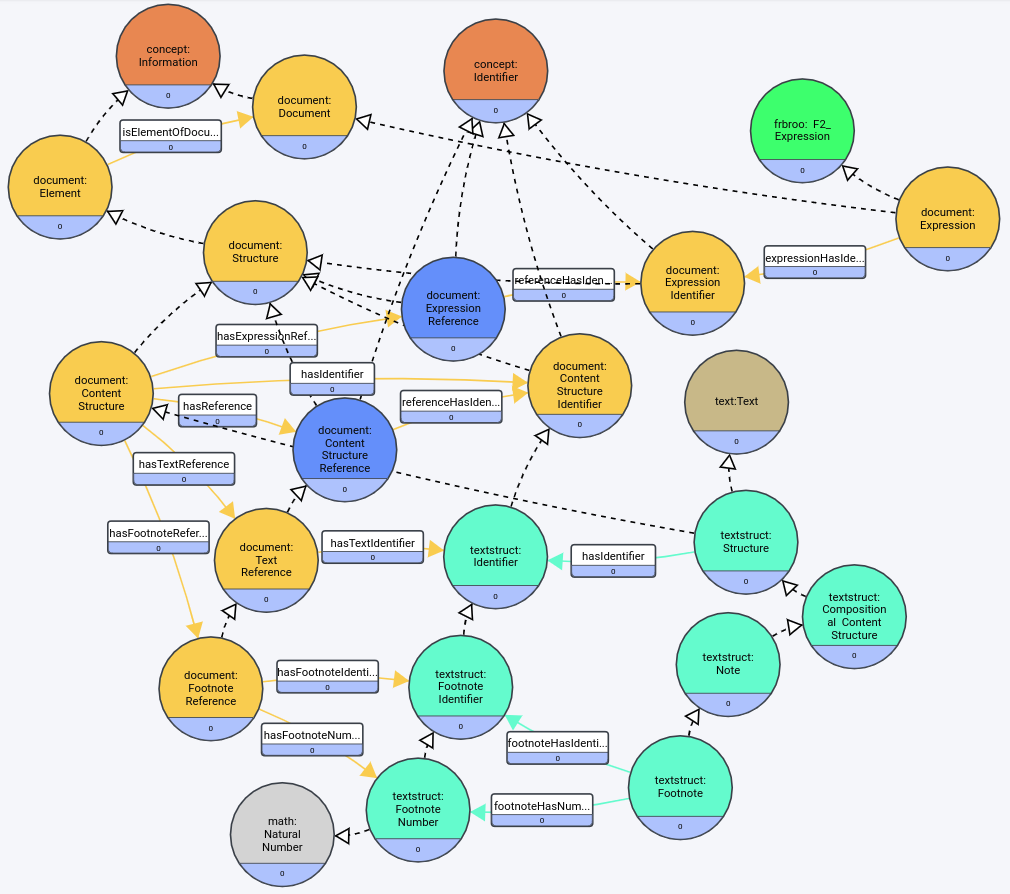
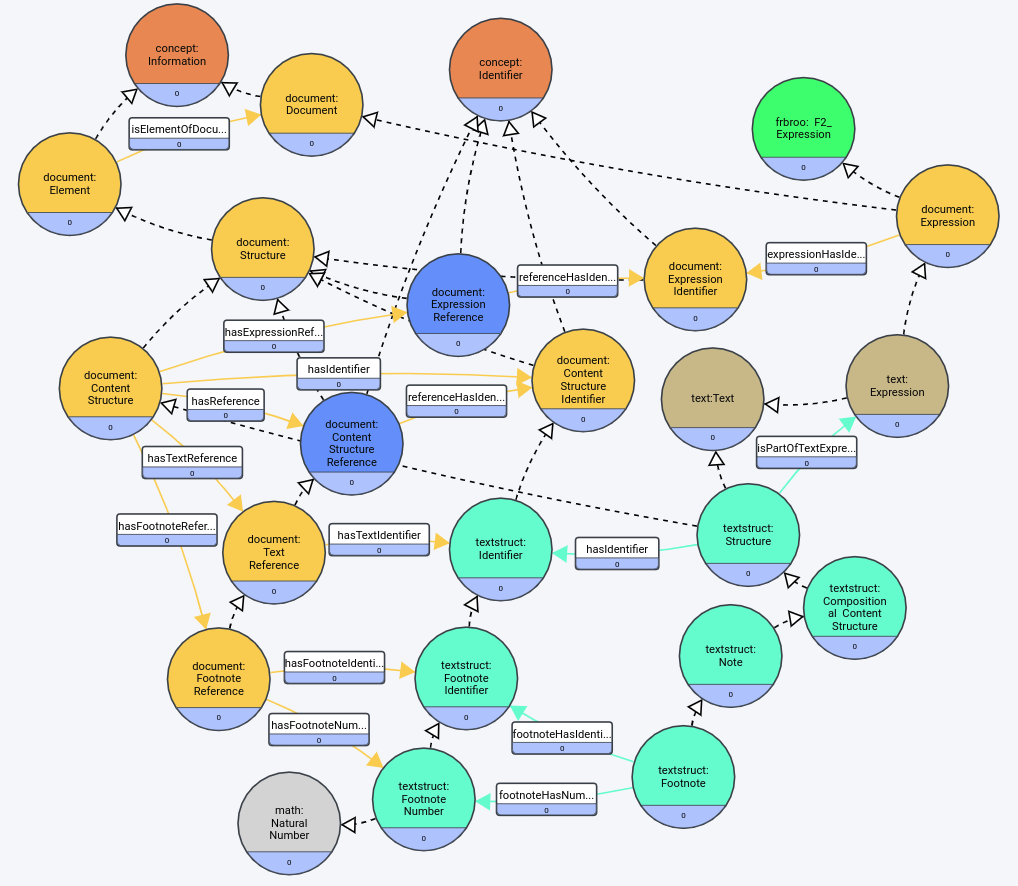
update readme and graphics

diff --git a/README.md b/README.md
@@ -101,7 +101,7 @@ Figure 5 shows the subsumption tree of the class concept:Information, from the c
 ##### Figure 12: Graphic representing classes and properties from different ontologies concerning 'edition'
 &nbsp;  
 &nbsp;  
-![figure](https://github.com/nie-ine/Ontologies/blob/master/NIE_ontology_graphics/NIE_apparatus.svg)
+![figure](https://github.com/nie-ine/Ontologies/blob/master/NIE_ontology_graphics/NIE_apparatus.png)
 
 ##### Figure 13: Graphic representing classes and properties from different ontologies concerning scientific edition and apparatus
 &nbsp;  
